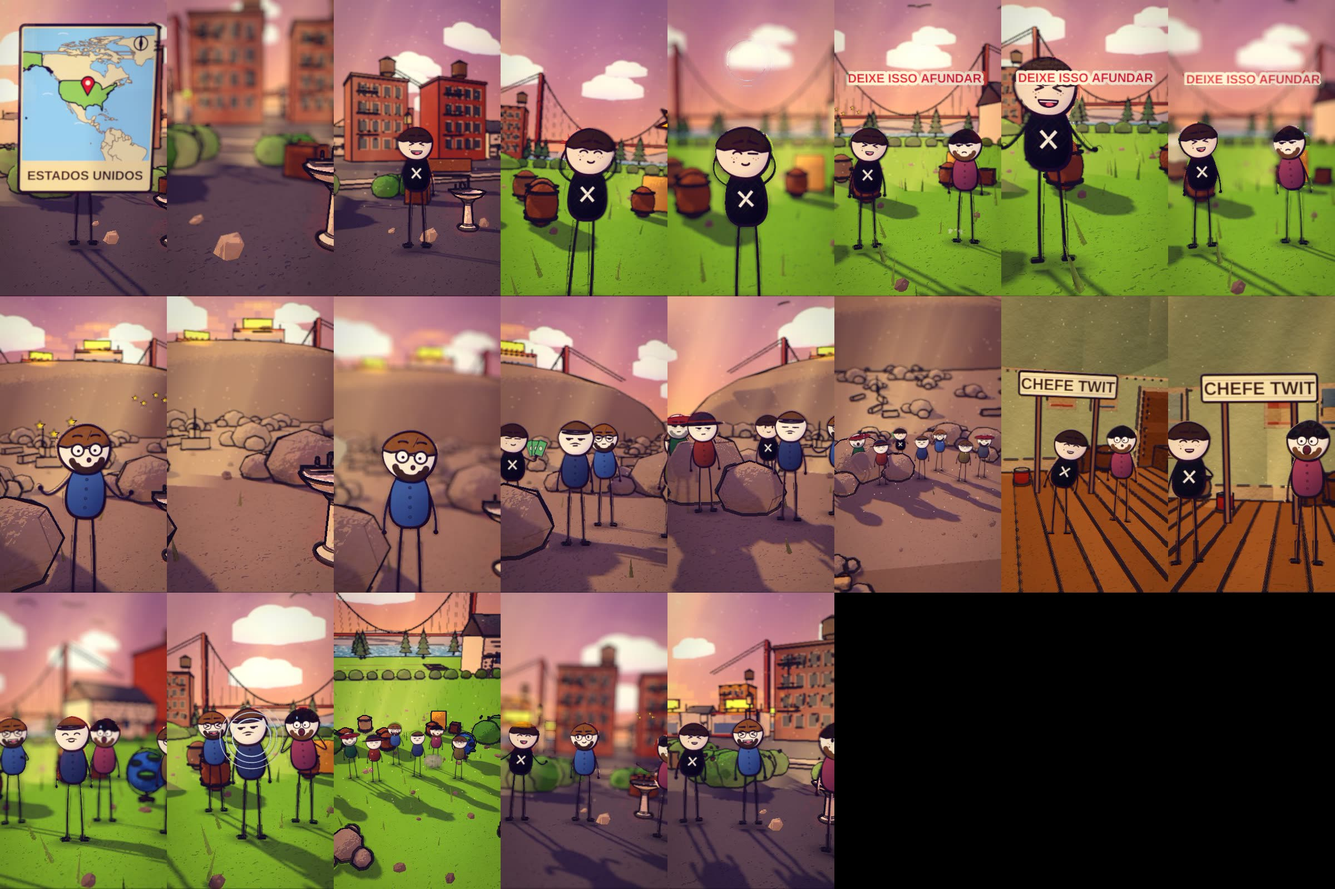
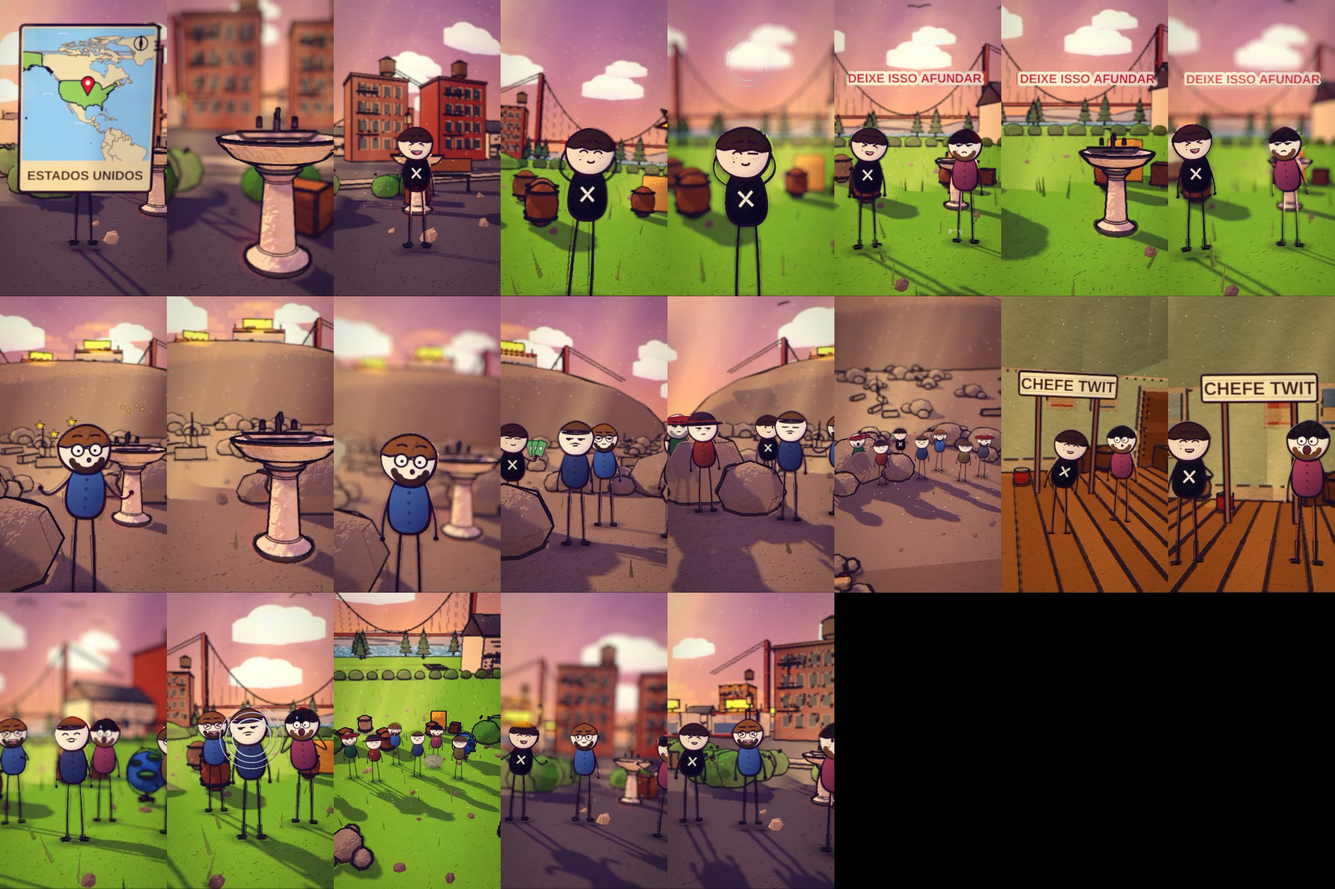
pia2022: storyboard aprovado (pia grande)
Claude-Session: https://claude.ai/code/session_01WNYYpRLbWz2wGKzkvYWt5N

diff --git a/ferramenta-shorts/stories/pia2022/revisao_storyboard.md b/ferramenta-shorts/stories/pia2022/revisao_storyboard.md
@@ -1,8 +1,8 @@
-b0: OK - em outubro de dois mil e vinte e dois Elon Musk esteve na sede do Twitter em São Francisco com uma pia, mapa Estados Unidos e Musk com a pia ao lado na rua
+b0: OK - em outubro de dois mil e vinte e dois Elon Musk esteve na sede do Twitter em São Francisco com uma pia, mapa Estados Unidos e close da pia inteira em escala real ao lado do Musk
 b1: OK - ele filmou a própria entrada e postou o vídeo na internet, Musk sorrindo com o celular e a ponte Golden Gate ao fundo
-b2: OK - a legenda dizia entrando na sede do Twitter deixe isso afundar, texto DEIXE ISSO AFUNDAR com Musk e funcionário do Twitter
-b3: OK - é um trocadilho porque em inglês sink quer dizer pia e também afundar, funcionário surpreso com a pia ao lado em close
+b2: OK - a legenda dizia entrando na sede do Twitter deixe isso afundar, texto DEIXE ISSO AFUNDAR com Musk, funcionário e a pia inteira no centro
+b3: OK - é um trocadilho porque em inglês sink quer dizer pia e também afundar, funcionário surpreso e close da pia no centro do quadro
 b4: OK - naquela época ele estava prestes a fechar a compra do Twitter por quarenta e quatro bilhões de dólares, notas de dinheiro e funcionários na colina
 b5: OK - ele também mudou o perfil e escreveu que era o Chefe Twit, placa CHEFE TWIT com Musk e funcionário em sala
 b6: OK - a cena deu o que falar no mundo inteiro, grupo comentando com globo e multidão no parque
-b7: OK - uma pia, uma legenda e uma piada que ninguém esqueceu, Musk com a pia e funcionário na rua
+b7: OK - uma pia uma legenda e uma piada que ninguém esqueceu, Musk e funcionário com a pia ao fundo na rua
